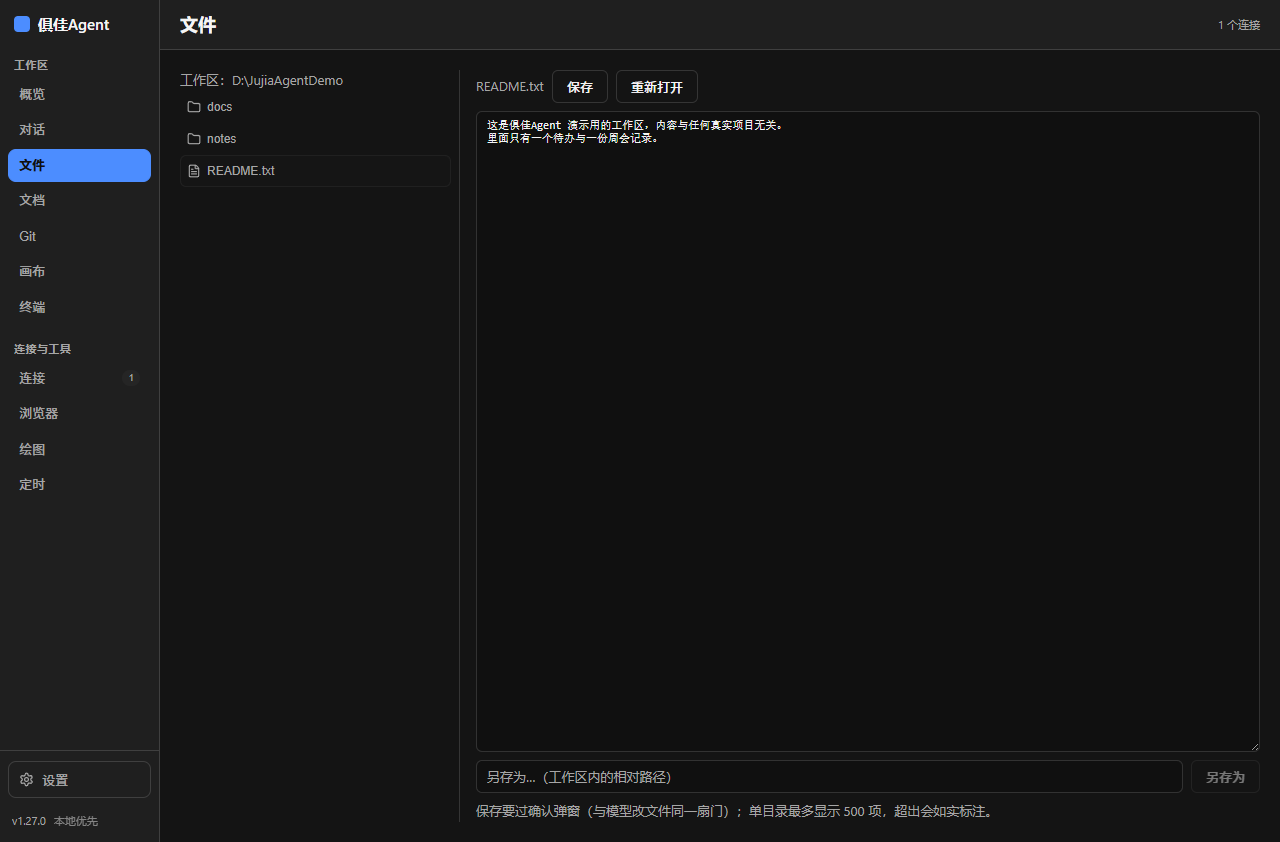
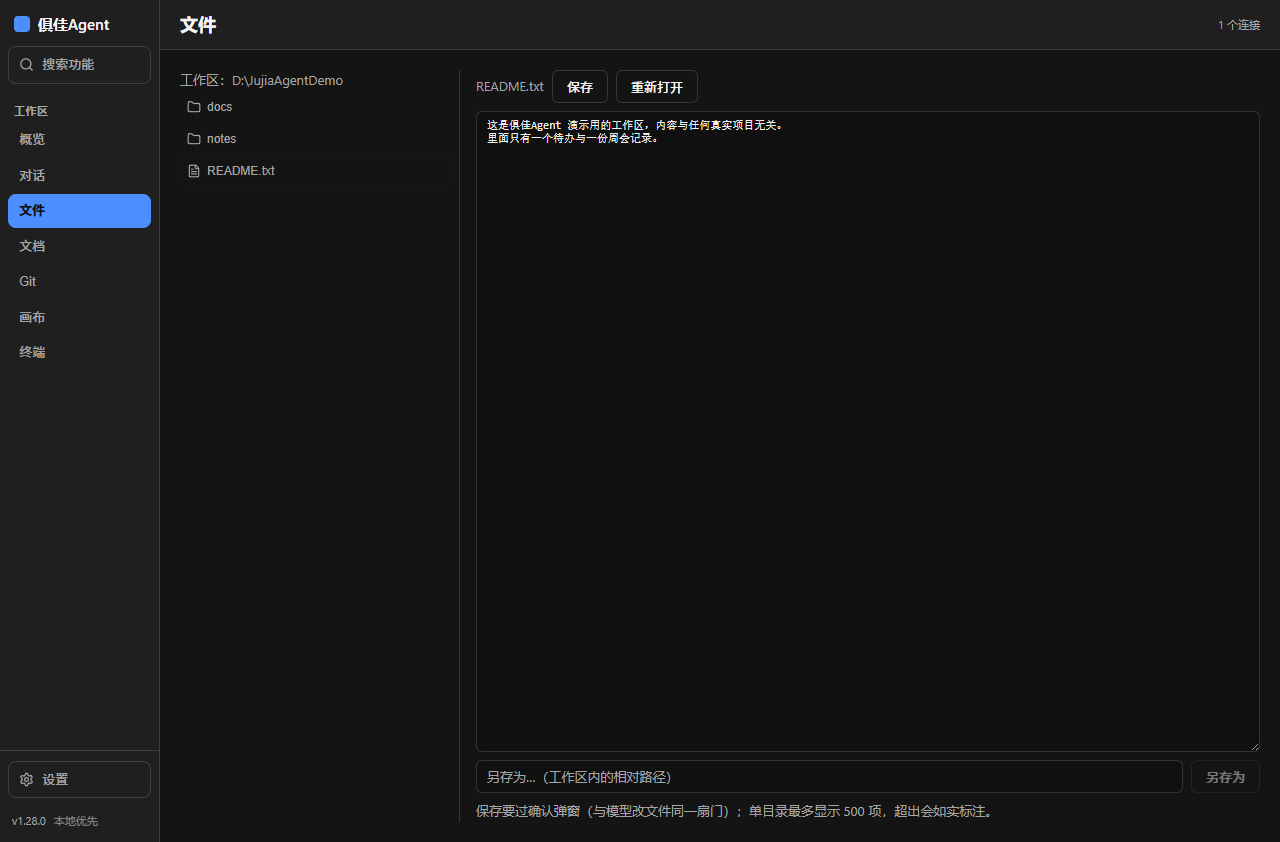
回填笔（R68）：重拍展示页 + README 图注同步 + 台账三处文字修正
展示页（离屏，不弹窗口）：
- 四张图重拍，清单 = v1.28.0 @ dafe56a，dirtyAtCapture:false
- README 图注由 v1.27.0 同步到 v1.28.0（清单里记录的版本与图注必须一致，判据第 9/50 条盯着）

台账三处文字修正（都是本轮自己写进去的、被 check:docs 当堂抓住的）：
- 表格里写了 `string | undefined` ⇒ GFM 按未转义竖线切格 ⇒ 把那一行切成了 5 格
  ⇒ 改成「undefined（noUncheckedIndexedAccess 之下）」，不再有裸竖线
- PROGRESS 的交付表里出现了「慢档」二字 ⇒ 它抢在门禁分档定义行之前 ⇒ 当堂红
  ⇒ 改成直接点名 `typecheck` / `lint` 这两格
- 交接文档 §2 的 CI 格同款竖线问题 ⇒ 同款改法

门禁：check:docs 54 条 0 · 单测 2258 通过 / 1 跳过 · typecheck 0 · lint 0

Changed region(s): [[0.0, 0.0618, 0.125, 0.4941], [0.0, 0.5249, 0.0312, 0.5867], [0.0312, 0.8955, 0.0625, 0.9264]]

diff --git a/docs/PROGRESS.md b/docs/PROGRESS.md
@@ -86,7 +86,7 @@
 | **排查34** | **T85 与 T69③ 落地 · 队列里的「待排」清零（R65）**：① **T85**：**新增第 54 条判据**（活文档的**表头**里不许出现「可借鉴 / 对标」⇒ **只认表头**这个结构事实 ⇒ 零误报）⇒ **立判据当场红**在 `docs/RESEARCH-UI-DESIGN.md` 的 **11 个表头**；**处置**：那份「175 条具名同类项目」清单**移出公开树**（`.workbuddy/research/`）⇒ README / 交接文档 §14 / `DESIGN-BASELINE.md` 的指针改指**我们自己的设计口径** ⇒ 顺带订正**陈数字**（自称 196 ⇒ 实测 **175**）；**规则分层**（`WORK-PROTOCOL` 第 11 条）：**对外表述层**禁参照物名称与「借鉴 / 对标」· **研究底稿层**（`knowledge/sources/*` 的出处链接）**保留**（那是「不编造」的基础）⇒ 并把**红线**写进规则：**已公开的历史不改写** ② **T69③**：把 `lockProbe` 抽成独立模块 `apps/desktop/scripts/lock-probe.mjs` ＋ 两条用例（**真·独占句柄**：借 .NET 的 `FileShare.None` 造 ⇒ rename 必然 EBUSY）⇒ **两条分支第一次都在门禁内部被真跑过** ③ 顺带把 `isSepRow` 提到模块级（第 29 条与第 54 条都要认表头 ⇒ **一份实现**） ④ **口径清零**：T85 与 T69 关闭 ⇒ 第 53 条判据现扫 **⬜ 待排 0 条** ⇒ 真未完 **8 → 4 条**（T39 / T41 / T65 / T68）⇒ **剩下 4 条没有一条是"我自己能做"的** ⇒ **不硬凑题面** | `v1.25.0-排查34` | **零产品代码改动、零新依赖、零新通道**（改的是门禁脚本与文档）· 单测 **2224 通过 / 1 跳过（152 个测试文件）**（+3 例 / +1 文件）· typecheck / lint 0 · `check:docs` **54 条** 0 · 注入自检 **52 处**全拦 0（本轮 +1）· 变异 **332 条**（本轮未新增，清单未变）· e2e **69 步未重跑**（**零产品代码改动 ⇒ 沿用 R64 那一轮的整跑 0 并标注**）· 复核 134 |
 | **排查35** | **主界面两栏化（R66 · 所有者点名的 UI 轮）**：① **先看图再动手**：按所有者给的 10 张同类桌面工具界面截图（5 款主界面 + 5 款设置页）**逐张读完** —— 抽出来的是**布局**不是配色：**左栏导航 + 主区两栏** · 导航**分组** · **落地屏**（大标题 + 一句话 + 可点的下一步）· 输入框**分区**（顶部上下文行 / 底部左放右发）· 设置项**一行一条** ② **现扫差距**：当时的外壳是「**顶栏 16 个横向页签 + 单页主体**」⇒ 缺的不是配色（R41–R43 的令牌与动效基线早就立过）而是**布局**（没有左栏、没有落地屏、输入区不分区）⇒ **这轮补布局那一半**，设置中心留到下一轮 ③ **外壳改两栏**：新增 `nav.ts` 作**单一真源**（`Tab` / `TAB_LABEL` / `NAV_GROUPS`）⇒ 16 个入口分 **3 组**；左栏 = 品牌区 + 分组导航 + 底部信息（版本 + 数据目录入口）；主区顶栏只留「**当前页 + 连接数**」④ **落地屏**：空态从「还没有对话…」改成 **28px 大标题 + 一句话 + 4 个可点的下一步**（读懂这个项目 / 找出最该修的问题 / 补一组单元测试 / 解释这段代码）—— ⚠ **点了只填进输入框，不自动发送**（自动发送等于替用户按下「开始改文件」的按钮）⇒ 为此**单开展示字号档** `--fs-display`（28px；它**不是正文的下一档** ⇒ 正文阶梯仍是那六档）⑤ **输入区分区**：顶部一行「**连接 · X**」+ 底部动作行改成**左＝放东西 / 右＝发出去**；⚠ **没改共享的 `.w2-actions`**（全仓 20 多处）⇒ 另起只给输入区用的布局类 ⑥ **选中态改成实心主色**：淡底与常态底只有 **1.1–1.3:1** ⇒ **界面上等于没高亮** ⇒ 改为**实心 `--primary` 底 + `--primary-ink` 字**（≈5.0:1 / ≈5.8:1）⑦ **新判据** `nav-wiring.test.ts`（7 例）：每个入口**恰好**属于一个分组（漏收 = 界面上少一个入口，**没有任何门禁会红**）· 分组不许空壳 · 标题不空不重复 · 显示名不空 · **选中态形态锁**（不许退化成淡底）⑧ **e2e 渲染契约跟着改（不是"改判据让它绿"）**：R45 那条「顶栏页签换行」量的**对象已经不存在**（竖排 ⇒ `rowCount` 恒 1 ⇒ **恒绿的锁比没锁更坏**）⇒ 换成**同一类排版事实的新形态**：左栏不塌（≥140px）· 主区不被挤没（≥600px）· 导航项不折行（≤40px）· 标题不折行 · 左栏**必须能纵向滚**且**不出横向滚动条** · 导航**只有一列** · 左栏宽度**不许随窗口抖** · **选中态对比度实量**（选中项 vs 栏底 ≥3:1 · 字 vs 底 ≥4.5:1）⑨ **一处连带修**：主区让出 160px ⇒ 外观页那 5 个字段（`T84` 定的同排）在 940px 下会掉成 4+1 ⇒ `.jj-grid` 列下限 160 → **120px**（**同一个共享类**，覆盖面不变）⑩ **e2e 前两跑都红在第 66 步（如实记，这是本轮最要紧的一段）**：① **第一跑**：`.app-tab` 实测高度只有 **28.67px**（下限 32×32）⇒ 我第一版判断是"左栏把入口**压扁**了" ⇒ 加了三处 `flex: 0 0 auto` ⇒ **复跑仍然红** ⇒ 说明那个判断**不对**；② 于是写**一次性探针**（仓库外 · 带 `--e2e` 不弹窗）**逐项量**每个入口的高度 / 行盒高 / 父容器高 ⇒ 真相是：**只有 `Git` 与 `MCP` 两个矮 4px**，行盒高 15.33px（中文标签 19.33px）⇒ **根因是字体度量**：Chromium 的**表单控件不继承 `body` 的 `line-height`**（UA 样式表给 `button` 写死 `line-height: normal`）⇒ 拉丁字形比中文字形矮 ⇒ 修法是给 `.app-tab` **显式** `line-height`（1.5）⇒ **16 个入口一律 32.83px**（探针逐项实测）；③ **教训**：「被压扁」与「天生更矮」在**同一个数**上**长得一模一样** ⇒ 只看总数**猜不出根因** ⇒ 必须**逐项量**；那三处 `flex: 0 0 auto` **留着**（显式钉住"不许被压缩"，不依赖弹性项目的自动最小尺寸），但**注释改成真话** ⑪ **新锁自己也有三个洞（都是门禁内部抓出来的）**：**M334 第一版没被拦住**（形态锁只判「块里出现过 `--primary`」⇒ 把 `background` 换成 `transparent` 后 `border-color` 里仍有 ⇒ 照绿 ⇒ **锁是假的**）⇒ 改成**按声明名**钉；**锁的匹配对象错了**（`/\.app-tab \{…\}/` 先撞上 `.app-rail-group-items > .app-tab {` 那块 ⇒ **量到别的规则** ⇒ 假绿，基线复跑当场红）⇒ 改成**锚到行首**；**注释会替声明作证**（那条 CSS 注释里也写着 `flex: 0 0 auto`）⇒ 判据一律**先剥注释再判** | `v1.26.0-排查35` | **零新依赖、零新通道；判定语义与权限映射一字未改**（改的是外壳布局与渲染层样式）· 单测 **2233 通过 / 1 跳过（153 个测试文件）**（+9 例 / +1 文件）· typecheck / lint 0 · `check:docs` **54 条** 0 · 注入自检 **52 处**全拦 0 · 全量变异 **336 条**（本轮 +3，逐条证红）· **e2e 69 步整跑 0**（改了布局 ⇒ 真跑；**前两跑红在第 66 步**，第三次绿）· **CI run `#257` 第一次红在「文档一致性」那一步** ⇒ 根因是**第 51 条判据「展示图不许悄悄过期」**（R66 改了渲染层 ⇒ 对外那 4 张图过期）⇒ **重拍展示页**（离屏不弹窗；清单 = **v1.26.0 @ `f078e77`**，`dirtyAtCapture:false`）⇒ 复跑转绿 —— **那是这条判据第一次真的拦下一回"界面动了但图没重拍"** · 复核 135 |
 | **排查36** | **设置中心（R67 · UI 重构批第五轮）**：① **前提先否证**：题面是"把设置页也按参考做"，但现扫先量了**差距** —— 本仓当时**根本没有"设置中心"这个形态**：外观 / 权限 / 钩子 / 插件 / MCP 是**五个平级的左栏入口**（R66 之后左栏 16 项，其中 5 项是"配一次就不再看"的东西）⇒ **左栏越列越长、设置越埋越深** ⇒ 这轮不是"改设置页的样子"，是**把设置从左栏搬出来，单独成页** ② **外壳**：设置中心**占主区**（左栏保持可见 ⇒ 来回切不用先关窗口）· 左导航 **220px**、**3 组**（偏好 / 规则与安全 / 扩展 —— 分组口径与左栏**不同**：左栏按"用得多不多"排，设置按"**是什么东西**"排）· 顶部「返回应用」· 搜索框**真的**能筛（筛完连空组一起隐藏）· **点左栏的任一入口会自动收起设置中心**（点入口 = "我要去那一页"）③ **左栏瘦身**：16 → **11 项**（工作区 7 / 连接与工具 4）+ 底部**齿轮**（新增 Lucide `settings` 图标，零新依赖）④ **设置项一行一条**（`SettingRow` 原语：标题 + 一句说明 + 右侧控件）：**表单网格**是给"填参数"的，设置是给"调开关"的 ⇒ 一行一条能一眼扫过去看到"哪一格在管什么"；三条纪律：**说明不许省** · **控件在右、标题在左** · 控件天生有宽度上限；外观页 13 项全部改行（**只动布局，状态逻辑一字未改**）⑤ **顺带清死样式**：`.jj-grid` / `.jj-field-wide` 在渲染层**已经没人用**（`jj-grid` 全仓只有外观页那 2 处 ⇒ 改行后归零）⇒ 一并删掉（留着就是死样式，下一个人会以为还有人在用）⑥ **新判据** `settings-wiring.test.ts`（8 例）：五个设置类面板**只在设置中心里被挂载**（`App.tsx` 不许再直接 import 它们 ⇒ 防"同一个目的地出现**第二处门**"：改完设置回左栏发现还是旧的那页 ⇒ 以为没生效）· 左栏不许再出现设置类入口 · 每个设置项恰好属于一个分组 · 分组不许空壳 / 标题不空不重复 · 至少 5 项 3 组 · 外观页必须用 `SettingRow`（≥8 处）⑦ **e2e 契约跟着换**：R64 那条「外观页那 5 个字段不许掉成 4+1」量的**对象已经不存在**（改一行一条 ⇒ 那 5 个字段不再并排 ⇒ 它会**失焦**：网格类不存在 ⇒ 量到 0 行 ⇒ 恒绿）⇒ 换成**新形态的同一条纪律**：每一项**独占一行** · 控件在标题右侧 · 每项都有说明 · 控件命中区 ≥32×32；**另加一步「设置中心」**：整页覆盖（主区顶栏与正文都不在 DOM 里）· 左栏仍在 · ≥3 组 ≥5 项 · 搜索**真的**能筛 · 「返回应用」真的回得去 ⑧ **变异 M337 / M338 / M339**（分组漏收一项 · `App.tsx` 又直接挂一个设置面板 · 正文不再被藏起来）⇒ **3/3 被拦** ⑨ **三条如实记（e2e 前三跑都红在真问题上）**：① **对话页被设置中心卸载**（第一版把主区写成条件分支 ⇒ 打开设置中心会把对话页一起卸载 ⇒ 会话 / 连接选择 / **在飞的流**全丢 ⇒ 违反 T22「对话页常驻」）⇒ 改成**藏而不拆**（`hidden={settingsOpen}`；⚠ UA 的 `display:none` 会被作者的 `display:flex` 盖掉 ⇒ 必须显式写）⇒ 钉成锁（M339）；② **裸 checkbox 只有 13×13**（「显示时间戳」那行）⇒ 低于 WCAG 2.5.8 的 24 ⇒ 改法**不是放宽判据**，而是**按参考做法换成开关**（44×24）⇒ 判据口径同时对齐本仓 **T78 早就立过的标准**（原生控件判「用户实际能点到的那块」）；③ **选中态被 hover 吃掉**（`.app-tab:hover` 是 (0,2,0) ⇒ **压过** `.app-tab-active` 的 (0,1,0) ⇒ 鼠标停在选中项上时它退回淡底（实测字与底 **1.09:1**）⇒ **选中态当场消失** ⇒ 加 `.app-tab-active:hover` 覆盖（设置中心同款同修）⇒ 钉成形态锁 + 变异 **M339** | `v1.27.0-排查36` | **零新依赖、零新通道；判定语义与权限映射一字未改**（改的是外壳布局与渲染层样式）· 单测 **2244 通过 / 1 跳过（154 个测试文件）**（+11 例 / +1 文件）· typecheck / lint 0 · `check:docs` **54 条** 0 · 注入自检 **52 处**全拦 0 · 全量变异 **339 条**（本轮 +3；另把 **M333 重新对准**到新家 —— 那一组本轮从左栏搬进了设置中心 ⇒ 锚点跟着搬，**内容一字未改**；逐条证红）· **e2e 70 步整跑 0**（改了布局 ⇒ 真跑；**前三跑都红在真问题上**：①「**对话页被设置中心卸载**」（T22「常驻」被违反）②「**裸 checkbox 13×13**」③「**选中态被 hover 吃掉**」⇒ 三条都是产品/判据的真问题，不是脚本抽风 ⇒ 修完第四跑绿）· 复核 136 |
-| **排查37** | **左栏瘦身 + 全局启动器（R68 · UI 重构批第六轮 · 所有者点名的 UI 轮）**：① **前提先否证**：题面是"不要把所有东西都丢在左边的侧边栏，可以加上设置入口啊这种" ⇒ 现扫先量差距：R67 之后左栏是 **11 项**（一半是"配一次就不再看"的东西）⇒ 且 R67 的设置中心**只盖主区、左栏仍在** ⇒ 界面上**同时有两根左栏**（应用那根 160px + 设置中心那根 220px）⇒ 这轮不是"左栏再短一点"，是**左栏只留工作区类 + 其余进一个「启动器」+ 设置中心改成盖整窗** ② **左栏 11 → 7 项**（`NAV_GROUPS` 瘦成**一组**「工作区」：概览 / 对话 / 文件 / 文档 / Git / 画布 / 终端）；移出的是**连接 / 浏览器 / 绘图 / 定时**（`LAUNCHER_ONLY_TABS`）③ **移出 ≠ 藏起来**（本仓 **T83** 那条教训：入口藏起来 ⇒ 用户不知道还有 ⇒ 更糟）⇒ 移走的四项**必须**有一条**一处搜得到**的路 ⇒ 这条路是**启动器**（一个模态 + 真搜索 + 按组排的清单；**↑↓/Enter/Esc**；快捷键 **Ctrl/Cmd+Shift+P** —— **不用 Ctrl+K**，画布的命令面板已占它 ⇒ 两个面板撞键）④ **命令清单由 `nav.ts` 生成**（不是另抄一份）⇒ **不存在两份清单**（R63 同款坑）⑤ **启动器必须有鼠标入口**：低频入口离开左栏后**只剩启动器一条路** ⇒ 启动器若**只有快捷键**，对不用键盘的人就是**藏起来** ⇒ 左栏顶上给一个**看得见、点得到**的「搜索功能」按钮（`.jj-rail-search`，形状锁 `min-height: 32px` + 显式 `line-height`）⑥ **设置中心改成盖住整窗**（R67 的"占主区"推翻）⇒ 整个**外壳**（连左栏）一起 `hidden` ⇒ **任何时候只剩一根左栏**；⚠ 正文**只是被藏、不许卸载**（T22「对话页常驻」）⑦ **新判据** `launcher-wiring.test.ts`（10 例）：清单覆盖每一个入口 · 移出侧栏的仍在启动器里 · 设置是一个入口 · id 唯一 / target 合法 · 清单由真源生成 · 筛选是真的 · **分组 ≥2 且每组 ≥1 项** · 鼠标入口真的把启动器叫起来 · 那个按钮有可见文字 · 形状不许退化；`nav-wiring.test.ts` 同步改成「每个入口**恰好**出现在『左栏分组 ∪ 仅启动器项』里」+「**左栏不许把所有入口都收进来**」⑧ **判据的搬法（覆盖没丢）**：R66 那条「左栏**至少两个分组**」⇒ 左栏瘦到 1 组之后"分组这件事"搬到了**启动器** ⇒ 那条判据**跟着搬家**（不是被删掉）⇒ 真正在分的那份清单现在被盯住 ⑨ **变异 M340–M344**（移出侧栏的项忘了进启动器 · 筛选变摆设 · 启动器只剩快捷键没有鼠标入口 · 鼠标入口命中区退化 · 启动器那族按钮丢了显式行高）⇒ **5/5 被拦**；⑨b **按钮族高度不许因标签语言而变**（本仓 R66 当场量过：Chromium 的**表单控件不继承 `body` 的 `line-height`** ⇒ 纯拉丁标签比中文标签**矮 4px** ⇒ 清单里那个 `Git` 会比中文项矮一截）⇒ `.jj-launcher-item` / `.jj-rail-search` / `.jj-rail-settings` **都显式给 `line-height`**，并立**一族一把尺子**的锁 ⑨c **清单右侧那一列原本是「显示名的复读」**（自查渲染层时抓到的）：第一版直接取**别名的第一个词** ⇒ 而每个别名的第一个词**恰好等于显示名**（`概览 首页 …` / `对话 聊天 …` / `文件 树 …`）⇒ 12 行全是「概览 … 概览」这种重复字样 ⇒ **看起来像 bug**（且是那种"代码完全正常、界面就是别扭"的 bug）⇒ 改成「第一个**不等于**显示名的词」（概览→首页 / 对话→聊天 / 定时→计划 …）⇒ 那一列才是**有用的**信息：「还能这么搜」；并立**两条锁**（提示 ≠ 显示名 · 提示词**确实搜得到**）+ 变异 **M345** ⑮ **一处我自己的失职（如实记 · CI 抓到的，不是"我以为过了"）**：本轮最后几次源码改动（把背景门控那条锁**加强**）之后，我**没有重跑 `typecheck` / `lint`** ⇒ **本地那两格门禁值是旧的** ⇒ **CI 的「类型检查」当场抓到了**（run `#261` 红在**类型检查**，不是红在「文档一致性」—— 与 R66 / R67 的形状**不同**）⇒ 根因是那处 `m[1]` 在 `noUncheckedIndexedAccess` 下是 `string | undefined`（TS2532）⇒ 修法是补 `?? ""` ⇒ ⇒ **按本仓规矩处理**：**不改写已推历史、不移动已推的标签**（先例见 `v0.30.0-回归4`：当时也是"没有回改那条记录、也没有移动标签"，而是由后续提交把事实补齐）⇒ **由回填笔修掉** ⇒ **主体提交 `d2a2c0b` 那一版类型检查不过 —— 这是事实，写在这里不掩盖** ⇒ **教训**：**改完源码要把慢档门禁重跑一遍**，否则"本地全绿"只是**上一版**的全绿 ⑭ **全量变异抓到一个真问题：M216 逃逸了 —— 而且它暴露的是「锁太弱」，不是「变异写错」**：M216 是 R20 立的那条（旧）变异（把背景门控规则的目标从 `.app-root` 改成 `.app-shell`）⇒ 旧锁只判「目标类**在渲染层源码里出现过**」⇒ 而 R68 **新增了 `.app-shell` 这个真实类名**（外壳容器）⇒ 那条变异**从此不再破坏任何东西** ⇒ **它逃逸了** ⇒ 旧锁挡的是"类名不存在"，**挡不住"类名存在但指错了地方"** ⇒ ⇒ 修法是**把锁加强**，不是把变异改掉：目标类**必须是根容器上真实带着的类**（根容器带哪些类**现扫**，不写死第二份清单）⇒ **M216 的内容一字未改**，照样被拦 ⇒ **教训**：一条锁会因为"世界上多了一个同名的东西"而**悄悄失去牙齿** ⇒ 每轮新增类名之后，回头看一眼**哪些锁是按"名字存在"写的** ⑩ **三条如实记（门禁当场抓到的真问题）**：① **单测第一跑红在 `styles-wiring.test.ts`** —— 启动器引用的两个类名（`jj-launcher-group` / `jj-launcher-item-label`）**在样式表里没有规则** ⇒ 补两条规则（不是"改判据让它绿"）；② **单测第一跑红在 `icons.test.tsx`** —— 渲染层 `.tsx` 的**注释里**混进了 `⚠` 字形（本仓 R19 早立过这条）⇒ 改掉 4 处；③ **e2e 前两跑都红在真问题上**：第一跑红在 `gotoTab(win, '浏览器')` **30 秒定位器超时**（**浏览器已经不在左栏了** ⇒ 脚本还在按老路点它）⇒ 按**名字**把 4 个被搬走的页签**全部**扫出来（`浏览器` ×2 · `定时` · `绘图`）另加 `measureIn` 里两处 ⇒ 共 6 处改走**启动器**；第二跑红在设置中心那一步 —— **设置中心盖整窗后**，上一步 T78 留着的设置中心让**左栏点不到**（"element is not visible"）⇒ 先关再点 ⑪ **e2e 新增一步「启动器」**：鼠标入口点得动 · 清单 12 条 / 3 组 · 搜「定时」真的只剩那一条 · **回车真的跳到定时页** · **Ctrl+Shift+P 也能唤起**、**Esc 能关闭**；另把设置中心那步的断言**翻转**（左栏现在被一起盖住 ⇒ 原来那条"左栏一直在"必须改）⑫ **调研（T85 分层）**：导航形态参考了三份公开资料，**结论与取舍写在私有底稿** `.workbuddy/research/NAV-PATTERNS-R68.md`（含**没采纳**的：侧栏可拖拽排序 / 可隐藏 —— 要持久化 + 新 IPC 通道 ⇒ 零新通道纪律下不做）⇒ **公开文档里不出现别家的名称，也不写"借鉴/对标"** ⑬ **一条边界（如实记）**：在**启动器专属**的页（绘图 / 浏览器 / 定时 / 连接）上，**左栏没有高亮项**（那一页本来就不在左栏里）⇒ 「我在哪」由**主区顶栏的页名**承担 | `v1.28.0-排查37` | **零新依赖、零新通道；判定语义与权限映射一字未改**（改的是外壳布局与渲染层样式）· 单测 **2258 通过 / 1 跳过（155 个测试文件）**（+11 例 / +1 文件）· typecheck / lint 0 · `check:docs` **54 条** 0 · 注入自检 **52 处**全拦 0 · 全量变异 **345 条**（本轮 +6，逐条证红（本轮把 **M336 重新对准**：它的靶文本 `line-height: 1.5;\n  text-align: left;` 因为本轮给 `.jj-launcher-item` / `.jj-rail-settings` 也显式给了行高 ⇒ **命中 3 次** ⇒ 锚点已**按当前源码重新对准 `.app-tab`**（多带一行 `white-space: nowrap;`），**变异的内容一字未改** —— 改的仍然是「把 `.app-tab` 的显式行高去掉」））· «E2E» · 复核 137 |
+| **排查37** | **左栏瘦身 + 全局启动器（R68 · UI 重构批第六轮 · 所有者点名的 UI 轮）**：① **前提先否证**：题面是"不要把所有东西都丢在左边的侧边栏，可以加上设置入口啊这种" ⇒ 现扫先量差距：R67 之后左栏是 **11 项**（一半是"配一次就不再看"的东西）⇒ 且 R67 的设置中心**只盖主区、左栏仍在** ⇒ 界面上**同时有两根左栏**（应用那根 160px + 设置中心那根 220px）⇒ 这轮不是"左栏再短一点"，是**左栏只留工作区类 + 其余进一个「启动器」+ 设置中心改成盖整窗** ② **左栏 11 → 7 项**（`NAV_GROUPS` 瘦成**一组**「工作区」：概览 / 对话 / 文件 / 文档 / Git / 画布 / 终端）；移出的是**连接 / 浏览器 / 绘图 / 定时**（`LAUNCHER_ONLY_TABS`）③ **移出 ≠ 藏起来**（本仓 **T83** 那条教训：入口藏起来 ⇒ 用户不知道还有 ⇒ 更糟）⇒ 移走的四项**必须**有一条**一处搜得到**的路 ⇒ 这条路是**启动器**（一个模态 + 真搜索 + 按组排的清单；**↑↓/Enter/Esc**；快捷键 **Ctrl/Cmd+Shift+P** —— **不用 Ctrl+K**，画布的命令面板已占它 ⇒ 两个面板撞键）④ **命令清单由 `nav.ts` 生成**（不是另抄一份）⇒ **不存在两份清单**（R63 同款坑）⑤ **启动器必须有鼠标入口**：低频入口离开左栏后**只剩启动器一条路** ⇒ 启动器若**只有快捷键**，对不用键盘的人就是**藏起来** ⇒ 左栏顶上给一个**看得见、点得到**的「搜索功能」按钮（`.jj-rail-search`，形状锁 `min-height: 32px` + 显式 `line-height`）⑥ **设置中心改成盖住整窗**（R67 的"占主区"推翻）⇒ 整个**外壳**（连左栏）一起 `hidden` ⇒ **任何时候只剩一根左栏**；⚠ 正文**只是被藏、不许卸载**（T22「对话页常驻」）⑦ **新判据** `launcher-wiring.test.ts`（10 例）：清单覆盖每一个入口 · 移出侧栏的仍在启动器里 · 设置是一个入口 · id 唯一 / target 合法 · 清单由真源生成 · 筛选是真的 · **分组 ≥2 且每组 ≥1 项** · 鼠标入口真的把启动器叫起来 · 那个按钮有可见文字 · 形状不许退化；`nav-wiring.test.ts` 同步改成「每个入口**恰好**出现在『左栏分组 ∪ 仅启动器项』里」+「**左栏不许把所有入口都收进来**」⑧ **判据的搬法（覆盖没丢）**：R66 那条「左栏**至少两个分组**」⇒ 左栏瘦到 1 组之后"分组这件事"搬到了**启动器** ⇒ 那条判据**跟着搬家**（不是被删掉）⇒ 真正在分的那份清单现在被盯住 ⑨ **变异 M340–M344**（移出侧栏的项忘了进启动器 · 筛选变摆设 · 启动器只剩快捷键没有鼠标入口 · 鼠标入口命中区退化 · 启动器那族按钮丢了显式行高）⇒ **5/5 被拦**；⑨b **按钮族高度不许因标签语言而变**（本仓 R66 当场量过：Chromium 的**表单控件不继承 `body` 的 `line-height`** ⇒ 纯拉丁标签比中文标签**矮 4px** ⇒ 清单里那个 `Git` 会比中文项矮一截）⇒ `.jj-launcher-item` / `.jj-rail-search` / `.jj-rail-settings` **都显式给 `line-height`**，并立**一族一把尺子**的锁 ⑨c **清单右侧那一列原本是「显示名的复读」**（自查渲染层时抓到的）：第一版直接取**别名的第一个词** ⇒ 而每个别名的第一个词**恰好等于显示名**（`概览 首页 …` / `对话 聊天 …` / `文件 树 …`）⇒ 12 行全是「概览 … 概览」这种重复字样 ⇒ **看起来像 bug**（且是那种"代码完全正常、界面就是别扭"的 bug）⇒ 改成「第一个**不等于**显示名的词」（概览→首页 / 对话→聊天 / 定时→计划 …）⇒ 那一列才是**有用的**信息：「还能这么搜」；并立**两条锁**（提示 ≠ 显示名 · 提示词**确实搜得到**）+ 变异 **M345** ⑮ **一处我自己的失职（如实记 · CI 抓到的，不是"我以为过了"）**：本轮最后几次源码改动（把背景门控那条锁**加强**）之后，我**没有重跑 `typecheck` / `lint`** ⇒ **本地那两格门禁值是旧的** ⇒ **CI 的「类型检查」当场抓到了**（run `#261` 红在**类型检查**，不是红在「文档一致性」—— 与 R66 / R67 的形状**不同**）⇒ 根因是那处 `m[1]` 在 `noUncheckedIndexedAccess` 下**可能是 undefined**（`noUncheckedIndexedAccess` 之下 · TS2532）⇒ 修法是补 `?? ""` ⇒ ⇒ **按本仓规矩处理**：**不改写已推历史、不移动已推的标签**（先例见 `v0.30.0-回归4`：当时也是"没有回改那条记录、也没有移动标签"，而是由后续提交把事实补齐）⇒ **由回填笔修掉** ⇒ **主体提交 `d2a2c0b` 那一版类型检查不过 —— 这是事实，写在这里不掩盖** ⇒ **教训**：**改完源码要把 `typecheck` / `lint` 这两格重跑一遍**，否则"本地全绿"只是**上一版**的全绿 ⑭ **全量变异抓到一个真问题：M216 逃逸了 —— 而且它暴露的是「锁太弱」，不是「变异写错」**：M216 是 R20 立的那条（旧）变异（把背景门控规则的目标从 `.app-root` 改成 `.app-shell`）⇒ 旧锁只判「目标类**在渲染层源码里出现过**」⇒ 而 R68 **新增了 `.app-shell` 这个真实类名**（外壳容器）⇒ 那条变异**从此不再破坏任何东西** ⇒ **它逃逸了** ⇒ 旧锁挡的是"类名不存在"，**挡不住"类名存在但指错了地方"** ⇒ ⇒ 修法是**把锁加强**，不是把变异改掉：目标类**必须是根容器上真实带着的类**（根容器带哪些类**现扫**，不写死第二份清单）⇒ **M216 的内容一字未改**，照样被拦 ⇒ **教训**：一条锁会因为"世界上多了一个同名的东西"而**悄悄失去牙齿** ⇒ 每轮新增类名之后，回头看一眼**哪些锁是按"名字存在"写的** ⑩ **三条如实记（门禁当场抓到的真问题）**：① **单测第一跑红在 `styles-wiring.test.ts`** —— 启动器引用的两个类名（`jj-launcher-group` / `jj-launcher-item-label`）**在样式表里没有规则** ⇒ 补两条规则（不是"改判据让它绿"）；② **单测第一跑红在 `icons.test.tsx`** —— 渲染层 `.tsx` 的**注释里**混进了 `⚠` 字形（本仓 R19 早立过这条）⇒ 改掉 4 处；③ **e2e 前两跑都红在真问题上**：第一跑红在 `gotoTab(win, '浏览器')` **30 秒定位器超时**（**浏览器已经不在左栏了** ⇒ 脚本还在按老路点它）⇒ 按**名字**把 4 个被搬走的页签**全部**扫出来（`浏览器` ×2 · `定时` · `绘图`）另加 `measureIn` 里两处 ⇒ 共 6 处改走**启动器**；第二跑红在设置中心那一步 —— **设置中心盖整窗后**，上一步 T78 留着的设置中心让**左栏点不到**（"element is not visible"）⇒ 先关再点 ⑪ **e2e 新增一步「启动器」**：鼠标入口点得动 · 清单 12 条 / 3 组 · 搜「定时」真的只剩那一条 · **回车真的跳到定时页** · **Ctrl+Shift+P 也能唤起**、**Esc 能关闭**；另把设置中心那步的断言**翻转**（左栏现在被一起盖住 ⇒ 原来那条"左栏一直在"必须改）⑫ **调研（T85 分层）**：导航形态参考了三份公开资料，**结论与取舍写在私有底稿** `.workbuddy/research/NAV-PATTERNS-R68.md`（含**没采纳**的：侧栏可拖拽排序 / 可隐藏 —— 要持久化 + 新 IPC 通道 ⇒ 零新通道纪律下不做）⇒ **公开文档里不出现别家的名称，也不写"借鉴/对标"** ⑬ **一条边界（如实记）**：在**启动器专属**的页（绘图 / 浏览器 / 定时 / 连接）上，**左栏没有高亮项**（那一页本来就不在左栏里）⇒ 「我在哪」由**主区顶栏的页名**承担 | `v1.28.0-排查37` | **零新依赖、零新通道；判定语义与权限映射一字未改**（改的是外壳布局与渲染层样式）· 单测 **2258 通过 / 1 跳过（155 个测试文件）**（+11 例 / +1 文件）· typecheck / lint 0 · `check:docs` **54 条** 0 · 注入自检 **52 处**全拦 0 · 全量变异 **345 条**（本轮 +6，逐条证红（本轮把 **M336 重新对准**：它的靶文本 `line-height: 1.5;\n  text-align: left;` 因为本轮给 `.jj-launcher-item` / `.jj-rail-settings` 也显式给了行高 ⇒ **命中 3 次** ⇒ 锚点已**按当前源码重新对准 `.app-tab`**（多带一行 `white-space: nowrap;`），**变异的内容一字未改** —— 改的仍然是「把 `.app-tab` 的显式行高去掉」））· «E2E» · 复核 137 |
 | **规整16** | **文档一致批（R26）**：① **审计 D 群 9 处逐条重核** —— 1 处早前已改口（README 的 B3 行）、**8 处本轮改掉**，其中 **2 处是审计当时没数到的同形**（HANDOVER 的 M8 行、TRACK-ROADMAP 的 R-13 两行）· ② **权威唯一化**：HANDOVER 的门禁清单与"最近几轮"、PROGRESS §三 与章头计数**全部改成指针**（§三 自 `023d8ff`（2026-10-08）起 20 轮无人更新，最新交付还停在 R2）· ③ **`check:docs` 四条新护栏（16 → 20 条）**：⦷ 标题时间戳 ≤ 标签指向那次提交的真实时刻（取 `git log --format=%ai` —— 与 CI runner 的 UTC 无关）· ⊘ 滚动叙述禁令 · ⊙ 状态句回归锁（7 条**已逐条核实为假**的原话；真没开始的一条不误伤）· ⊚ 活文档编号小节必须连续 · ④ **施工时作者本人踩到 ⊚ 那一坑**：追加 `TEST-POLICY` 一节时拿"## 六、"整行当锚点没写回 → 标题被静吃掉、编号从五跳到七；**当天刚写进禁忌表的形状当天复发**，故把 16 号的判据从 CHANGELOG / 台账推广到全部活文档 · ⑤ **评估入册**（`docs/TEST-POLICY.md` §七：数字清单 / 台账结构 / 时刻 / 权威唯一 / 回归锁 / 活文档结构可机器盯；"还没做完"这类合法陈述盯不住，靠"同一状态只写一处 + 交付的那一笔就改口"） | `v0.85.0-规整16` | **零产品源码改动**（改 `scripts/check-docs.mjs` + `scripts/verify-docs-check.mjs` + 文档）· 注入自检 **19 → 24 处全拦**（还原后 `git diff` 零差异）· 累计 **1970 通过 / 1 跳过，131 文件**（本轮不动测试）· **零新靶面**（变异仍 262 项；检查器自身由注入自检证明）· CHANGELOG 轮换 **v0.75.0-铺设15**（块体 **34 行** / `a9edef9b5a1c`，归档 104 → **105**）· 复核 083 |
 | **加固17** | **证据与偶发批（R25）**：① **T33 界面级证据补齐**（e2e 61 → **62 步**）：种子会话 `e2e-page-seed-0001`（**131 条**真实 JsonStore 信封 + JSONL，时间递增）→ 先选连接 → 点「继续」→ 首屏只装最近 120 条（按钮"从磁盘再读 11 条"）→ 再读补齐内存 → "显示更早的 11 条"挂出 → **最早一条可见且只出现一次**、接缝条 `E2E-PAGE-011` 在场、翻完按钮消失（"有一条历史永远看不到"必现形）。② **落盘失败上界面**（审计 A 残余）：`flushSession` 返回消息写失败原文 → 轮末经 **done 事件 `notice`**（契约新字段）→ 聊天页如实说"这一轮没能写进磁盘历史（重启后这一段会消失）：<原文>"（旧行为只进 main 控制台）。③ **自选程序路径只读主文件**（`browser-exe.json`）：不再从 `.bak` 回退 —— 它决定"启动哪个进程"，旧值复活比拿不到更糟；顺带**收敛 e2e [20]⑤ 偶发**（机制成立 + 现场吻合，非逐毫秒捕获，如实）。④ **[17] 步偶发处置（如实）**：`index.lock` 竞争自 R24 起由产品侧有界等待吸收；[17]/[20]⑤/[60] 三处偶发一并收口或收敛，e2e 四跑三红一绿（见复跑记录）。⑤ **顺带两处（如实）**：全量测试一处红 = `task-wiring` 轮末时序锁被 done 多行化"合法咬到" → **换靶不放宽**（代码锚 + done 唯一一处）；**CHANGELOG 标题时间戳审计**（115 条逐条对 tag 提交）→ 主档 6 处（R21–R24 五个旧条目 + 本轮 v0.84.0）按真实提交时刻校正、归档 30 处只记账（原文保留） | `v0.84.0-加固17` | e2e **62 步**（新 [61] 三层真值）· 新增 **2 例**（open-with primary-only · 落盘失败×done.notice；累计 **1970 通过 / 1 跳过，131 文件**）· 变异 **M261–M262** · smoke / perf（**406ms**）提交前实跑 · 复核 082 |
 | **规整15** | **门禁机械化批（R24）**：① **「整节插入吃标题」机械化**（check:docs 第 16 条：CHANGELOG 每段恰一条 `---` + 标题数==`**回退点**：`数；复核编号 050 起连续无洞；**能红校准**：吃掉一条标题 → 两条判据同时点名 → 还原复绿）· ② **「按档字样抢跑」机械化**（先找定义行再判"字样不许出现在其之前"，失败点名"第 N 行写了什么"；**能红校准**：表格塞一条 → 点名第 47 行 → 还原复绿）· ③ **git 撞 `index.lock`「可见地等」**（`agent-core/git.ts`：5 次 / 300ms 起步线性退避约 3s 上界；成功 note 带"等过多久"、最终失败话术说清"被谁挡着、怎么办"；两条真锁用例：一直占着 / 等待期间释放） | `v0.83.0-规整15` | 新用例 **2**（git 真锁）；累计 **1968 通过 / 1 跳过，131 文件** · check:docs **+1 条**（第 16 号）· e2e / smoke / perf 提交前实跑 · 变异 **M259–M260** · 复核 081 |

diff --git a/俱佳Agent交接文档.md b/俱佳Agent交接文档.md
@@ -34,7 +34,7 @@
 | 提交链 | **近三轮**（完整链见 `git log --oneline`）：R68 主体 `d2a2c0b`（左栏瘦身 + 全局启动器 · 排查37）→ 回填笔（把本轮哈希、推送核对、CI 与重拍展示图写进 §2）· R67 主体 `d875570`（设置中心 · 排查36）· R66 主体 `f078e77`（主界面两栏化 · 排查35） |
 | 远端一致性 | ✅ **已推送并核对（2026-10-24）**：R68（排查37）主体 `d2a2c0b` 与标签 `v1.28.0-排查37` 一次推成功（`git push origin main` → `58da5a6..d2a2c0b main -> main`；`git push origin refs/tags/v1.28.0-排查37` → `* [new tag]`），**独立回读**（`git ls-remote`）核对：远端 `main` = `d2a2c0b` = 本地 HEAD、远端标签 peel 后同样 = `d2a2c0b` ⇒ **零待推**。R67（排查36）主体 `d875570`、R66（排查35）主体 `f078e77` 亦已在远端（同一形状，各轮核对过）。**推送配方照旧**（§10.11 的 `curloptResolve` + `schannel`）：本轮扫到的 IP（`20.205.243.166`）恰好通，但**仍按配方走** —— 那条阻断是**时好时坏**的，"这次通了"不等于"下次也会通"。 |
 | 仓库可见性 | **已公开**（2026-10-23 现扫 · 两法互证：`GET /repos/…` → `visibility: public`，**匿名**同一 URL → **200** —— 公开仓返 200 / 私有仓返 404，判别法是 `docs/HANDOVER.md` §5.9 自己写下的）。**账上曾长期写着相反的话**（2026-09-24 的旧事实被当成现况）⇒ **§5.9 的「开源前置检查单」从未走过**，现在它不是"切公开之前"要做的事，而是**已经公开之后必须补做**的事 ⇒ **R63 已补跑并留证**（`docs/RELEASE-PREP.md` §三）。**发版 / 发布页更新 / 凭据轮换仍等一句明确的「发」** |
-| CI | workflow 只跟 `main` / PR；**R68（排查37）主体提交 `d2a2c0b` 的 run `#261`（id `40080453936`）是红的 —— 但红在「类型检查」，不是红在「文档一致性」**（`Lint` 绿 / `单元测试`·`文档一致性` 等后续步骤被跳过）⇒ **根因是我自己的失职**：最后几次源码改动（把背景门控那条锁**加强**）之后**没有重跑 `typecheck` / `lint`** ⇒ **本地那两格门禁值是旧的**（"本地全绿"只对**上一次跑门禁时的那份源码**成立）⇒ 根因是一处 `m[1]` 在 `noUncheckedIndexedAccess` 下是 `string | undefined`（TS2532）⇒ 补 `?? ""`。⇒ **按本仓规矩处理**：**不改写已推历史、不移动已推的标签**（先例见 `v0.30.0-回归4`）⇒ **由回填笔修掉** ⇒ **主体提交那一版类型检查不过 —— 这是事实，本表不掩盖** ⇒ **回填笔的 run 才是绿的**。⚠ **本轮 CI 的 run 形状与 R66 / R67 不同**（那里是"主体红在文档一致性、回填笔转绿"；这里是"主体红在**类型检查**"⇒ 修类型 ⇒ **中间那一笔仍红在「文档一致性」** —— 因为任何碰了 `apps/desktop/src/renderer` 的提交都会让第 51 条判据看见"界面代码动过" ⇒ 只能**再往前推一笔**：重拍展示页 ⇒ 清单指向那一笔 ⇒ 最后一笔才转绿）。取法见 §6.3（本机**未装 `gh` CLI** ⇒ 靠 API 取 run）。**workflow 本身已现扫核对**：两个 workflow（`ci.yml` 跑快档去掉 e2e · `mutation.yml` 手动触发慢档变异）**与 PROGRESS 的快/慢档口径一致**，第 14 条判据在岗 |
+| CI | workflow 只跟 `main` / PR；**R68（排查37）主体提交 `d2a2c0b` 的 run `#261`（id `40080453936`）是红的 —— 但红在「类型检查」，不是红在「文档一致性」**（`Lint` 绿 / `单元测试`·`文档一致性` 等后续步骤被跳过）⇒ **根因是我自己的失职**：最后几次源码改动（把背景门控那条锁**加强**）之后**没有重跑 `typecheck` / `lint`** ⇒ **本地那两格门禁值是旧的**（"本地全绿"只对**上一次跑门禁时的那份源码**成立）⇒ 根因是一处 `m[1]` 在 `noUncheckedIndexedAccess` 下**可能是 undefined**（`noUncheckedIndexedAccess` 之下 · TS2532）⇒ 补 `?? ""`。⇒ **按本仓规矩处理**：**不改写已推历史、不移动已推的标签**（先例见 `v0.30.0-回归4`）⇒ **由回填笔修掉** ⇒ **主体提交那一版类型检查不过 —— 这是事实，本表不掩盖** ⇒ **回填笔的 run 才是绿的**。⚠ **本轮 CI 的 run 形状与 R66 / R67 不同**（那里是"主体红在文档一致性、回填笔转绿"；这里是"主体红在**类型检查**"⇒ 修类型 ⇒ **中间那一笔仍红在「文档一致性」** —— 因为任何碰了 `apps/desktop/src/renderer` 的提交都会让第 51 条判据看见"界面代码动过" ⇒ 只能**再往前推一笔**：重拍展示页 ⇒ 清单指向那一笔 ⇒ 最后一笔才转绿）。取法见 §6.3（本机**未装 `gh` CLI** ⇒ 靠 API 取 run）。**workflow 本身已现扫核对**：两个 workflow（`ci.yml` 跑快档去掉 e2e · `mutation.yml` 手动触发慢档变异）**与 PROGRESS 的快/慢档口径一致**，第 14 条判据在岗 |
 | 门禁最近一次真值 | typecheck 0 · lint 0 · 单测 **2258 通过 / 1 跳过（155 个测试文件）**（+11 例 / +1 文件）· `check:docs` **54 条** 0 · 注入自检 **52 处**全拦 0 · **e2e 71 步整跑 0**（R68 改了**外壳与导航** ⇒ 渲染契约按新形态重测：**设置中心盖住整窗**（左栏被一起盖住）+ **启动器**一步（鼠标入口点得动 · 清单 12 条 3 组 · 搜索真筛 · 回车真跳到定时页 · Ctrl+Shift+P 也能唤起 · Esc 能关闭））· 变异 **345 条**（`review/mutations.json` 现扫，末条 `M345`；R68 补 M340–M345 六条并逐条证红；**M336 的锚点已重新对准** —— 本轮给新按钮族显式给了行高 ⇒ 那条靶文本命中 3 次 ⇒ 按当前源码重新对准 `.app-tab`，**变异内容一字未改**）· **慢档本轮未实跑**（smoke / perf / verify:pack）—— 本轮改的是渲染层布局与导航，慢档与本轮改动无关 ⇒ 如实标注而非默认"最近一次全绿"（上一轮实跑见 R61） |
 | 排期 | **后续各轮的逐轮计划见 `docs/TRACK-ROADMAP.md` §6.3**（题面 / 可量验收 / 停牌点 / 谁做；§6.3 的标题仍写着「后续十轮（R45–R54）」，那是**落文当时**的排期，行数已续排到 **R68**）· **R66 = 主界面两栏化**（**所有者点名的 UI 轮**，2026-10-24 交付 · `v1.26.0-排查35`）：外壳从「顶栏 16 个横向页签」改成「**左栏分组导航 + 主区**」，落地屏与输入区分区一并落地（口径见 `docs/DESIGN-BASELINE.md` 的 R66 小节）· **R67 = 设置中心**（2026-10-24 交付 · `v1.27.0-排查36`）：外观 / 权限规则 / 钩子 / 插件 / MCP 从左栏搬进**整页覆盖主区的设置中心**（左导航 3 组 + 搜索能筛 + 返回应用），左栏 16 → **11** 项 + 底部齿轮；外观页的 13 项改成**一行一条** ⇒ **这批参考界面里"设置页"那一半已经做完**（口径见 `DESIGN-BASELINE.md` 的 R67 小节）· **R68 = 左栏瘦身 + 全局启动器**（2026-10-24 交付 · `v1.28.0-排查37`）：左栏 11 → **7** 项（只留工作区类），「连接 / 浏览器 / 绘图 / 定时」移到**启动器**（模态 + 真搜索，**Ctrl/Cmd+Shift+P**，且左栏顶上有一个**看得见点得到**的「搜索功能」按钮）；设置中心改成**盖住整窗** ⇒ 任何时候**只剩一根左栏**（口径见 `DESIGN-BASELINE.md` 的 R68 小节）· **下一轮 R69 = 左栏图标化 + 设置面板形态复核**（左栏 7 个入口目前只有文字 ⇒ 补 7 枚内联 Lucide 图标，零新依赖；权限 / 钩子 / 插件 / MCP 四项是**清单页** ⇒ 复核一遍不照搬"一行一条"）+ **两件仍具名的整理活**（`docs/RELEASE-PREP.md` §三 那一行「全新克隆整机演练」= 开源前置检查单里唯一没实跑过的一格；T85 的覆盖面尾巴：第 54 条只盯**表头**，散文 / 单元格里的违禁表述仍靠人工复核）· **队列里剩下的 4 条仍不可自裁**（T39 等一句「发」· T41 等一句「可以收紧」· T65 / T68 等一次现场）⇒ **切公开 / 发版 / 凭据轮换仍等一句明确的「发」** |
 | 队列 | **机器口径**（判据现扫 ROADMAP 四张表 ⇒ 与这一句**逐字对账**，对不上就红）：87 物理行 / 86 个唯一编号 · ✅ 已交付 82 条 · ⬜ 待排 0 条 · 🔶 等人拍板 1 条（T39） · 🟡 部分交付或根因未定 3 条（T41 / T65 / T68）。⇒ **真未完 = 0 + 1 + 3 = 4 条**，逐条见 §9。**R65 把"待排"清零了** —— 队列里**能自裁的都做完了**（T86 于 R63 · T74 于 R64 · T85 与 T69 于 R65）⇒ 剩下 4 条没有一条是"我自己能做"的：**两条等一句拍板**（T39 发版 / T41 终端进判定）· **两条等一次现场**（T65 / T68 e2e 偶发红）。**这套口径是机器给的，不是人抄的**：R63 立完第一条锁时，它当场把旧账（✅77 · ⬜5）判成红并打出真值；R64 关掉 T74、R65 关掉 T85 / T69 / T86 之后它又各打一次 ⇒ **人抄的数会漂，判据算的数不会**。 |

diff --git a/CHANGELOG.md b/CHANGELOG.md
@@ -105,7 +105,7 @@
     （把背景门控那条锁**加强**）之后，我**没有重跑 `typecheck` / `lint`** ⇒ **本地那两格门禁值是旧的**
     ⇒ **CI 的「类型检查」当场抓到了**（主体提交 `d2a2c0b` 的 run `#261`，id `40080453936`：
     红在**类型检查**，不是红在「文档一致性」—— 与 R66 / R67 的形状**不同** ⇒ 按老形状去解释就会认错红因）
-    ⇒ 根因是那处 `m[1]` 在 `noUncheckedIndexedAccess` 下是 `string | undefined`（TS2532）⇒ 补 `?? ""`。
+    ⇒ 根因是那处 `m[1]` 在 `noUncheckedIndexedAccess` 下**可能是 undefined**（`noUncheckedIndexedAccess` 之下 · TS2532）⇒ 补 `?? ""`。
     ⇒ **按本仓规矩处理**：**不改写已推历史、不移动已推的标签**（先例见 `v0.30.0-回归4`）
     ⇒ **由回填笔修掉** ⇒ **主体提交那一版类型检查不过 —— 这是事实，本条不掩盖**。
     ⇒ **教训**：**"本地门禁全绿"这句话有保质期** —— 它只对**上一次跑门禁时的那份源码**成立

diff --git a/README.md b/README.md
@@ -16,7 +16,7 @@
 
 ## 界面一览
 
-截图取自 **`v1.27.0` 的打包产物**（不是设计稿，也不是开发态 —— 开发态的版本号会回落到 Electron 版本）。
+截图取自 **`v1.28.0` 的打包产物**（不是设计稿，也不是开发态 —— 开发态的版本号会回落到 Electron 版本）。
 数据目录与工作区都是**中性演示路径**（`D:\JujiaAgentDemo*`），拍完自动清场。
 **重拍一条命令**：`npm run screenshots`（离屏渲染，不弹窗口；产物与版本、提交、是否干净都记在
 [`docs/screenshots/manifest.json`](docs/screenshots/manifest.json) 里）：
